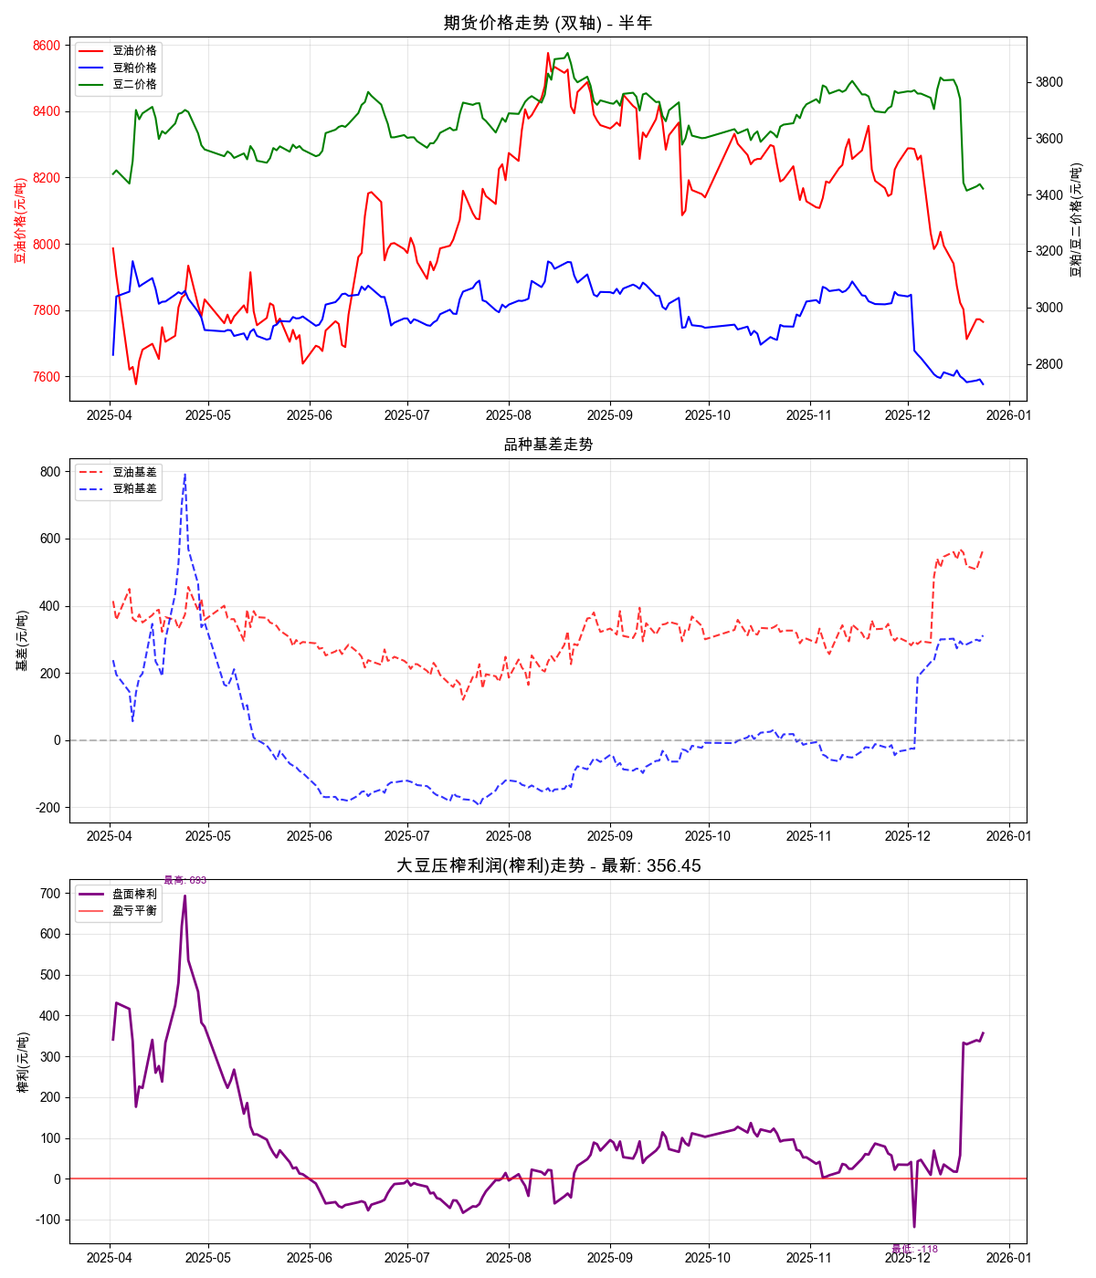
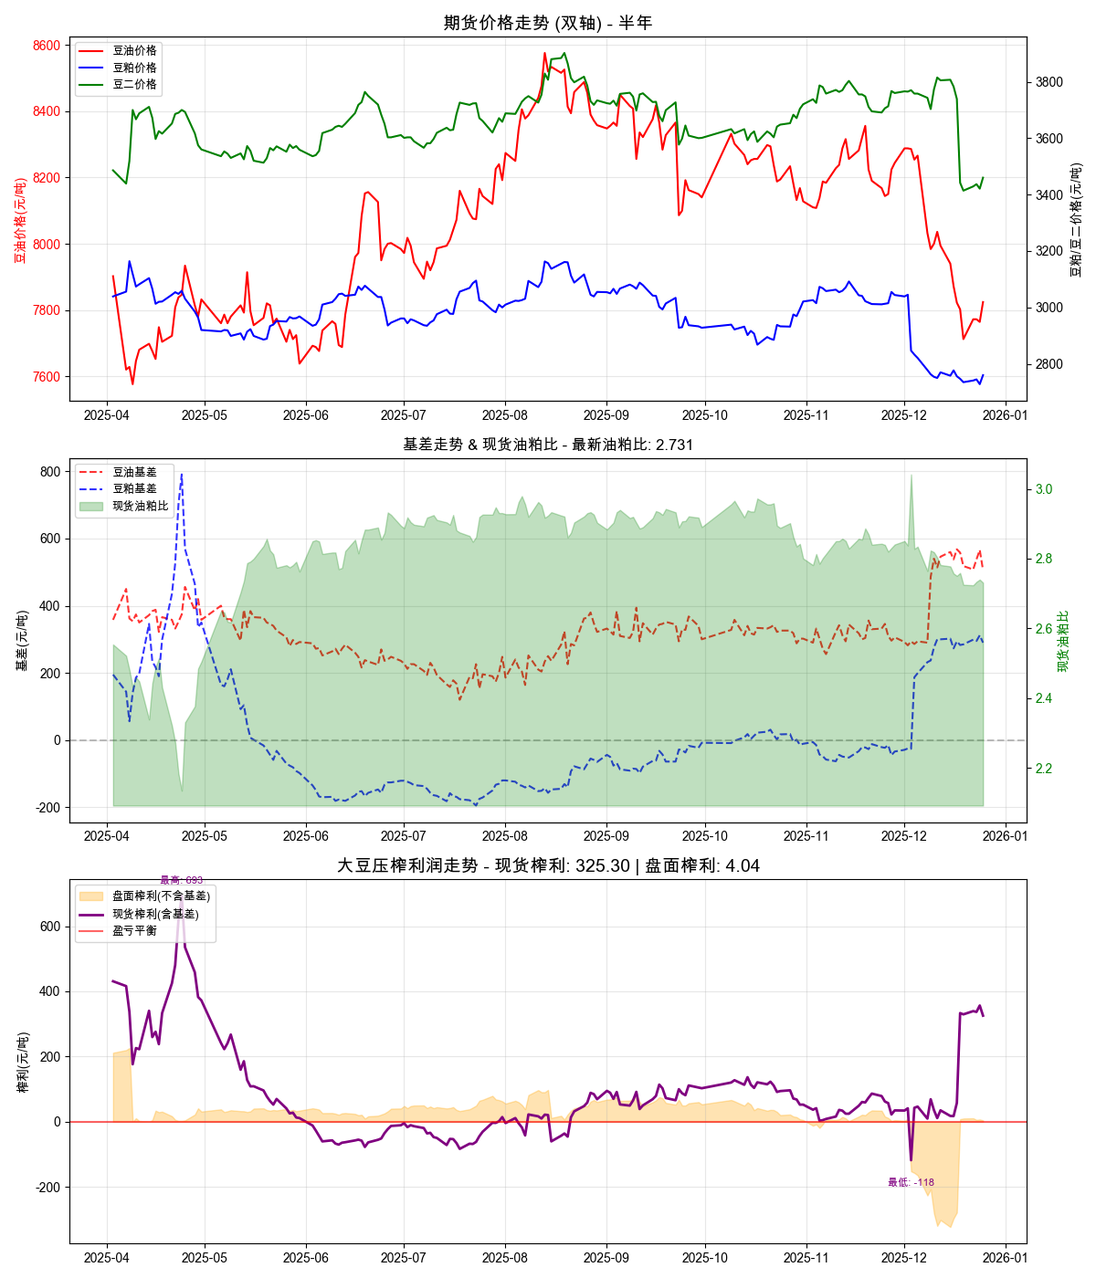
智能同步: 2025-12-25 22:32:50

diff --git a/分析文章脚本/榨利计算深度分析_v3.py b/分析文章脚本/榨利计算深度分析_v3.py
@@ -158,12 +158,20 @@ class 榨利计算器V3:
         合并 = pd.merge(豆油数据, 豆粕数据, on='日期', how='inner')
         合并 = pd.merge(合并, 豆二数据, on='日期', how='inner')
         
-        # 核心公式
+        # 核心公式：含基差榨利
         合并['榨利'] = (
             (合并['豆油价格'] + 合并['豆油基差']) * self.豆油产出率 + 
             (合并['豆粕价格'] + 合并['豆粕基差']) * self.豆粕产出率 - 
             合并['豆二价格'] - self.压榨成本
         )
+        # 盘面榨利：不含基差
+        合并['盘面榨利'] = (
+            合并['豆油价格'] * self.豆油产出率 + 
+            合并['豆粕价格'] * self.豆粕产出率 - 
+            合并['豆二价格'] - self.压榨成本
+        )
+        # 现货油粕比
+        合并['现货油粕比'] = (合并['豆油价格'] + 合并['豆油基差']) / (合并['豆粕价格'] + 合并['豆粕基差'])
         合并['榨利率'] = (合并['榨利'] / 合并['豆二价格']) * 100
         return 合并
 
@@ -193,27 +201,40 @@ class 榨利计算器V3:
         lines2, labels2 = ax1_r.get_legend_handles_labels()
         ax1.legend(lines1 + lines2, labels1 + labels2, loc='upper left', fontsize=9)
         
-        # 2. 基差走势 (中图)
+        # 2. 基差走势 (中图) - 含现货油粕比面积图
         ax2.plot(data['日期'], data['豆油基差'], 'r--', label='豆油基差', alpha=0.8)
         ax2.plot(data['日期'], data['豆粕基差'], 'b--', label='豆粕基差', alpha=0.8)
         ax2.axhline(0, color='gray', linestyle='--', alpha=0.5)
-        ax2.set_title('品种基差走势', fontsize=12)
         ax2.set_ylabel('基差(元/吨)')
-        ax2.legend(loc='upper left', fontsize=9)
         ax2.grid(True, alpha=0.3)
         
-        # 3. 榨利走势 (下图)
-        ax3.plot(data['日期'], data['榨利'], color='purple', label='盘面榨利', linewidth=2)
+        # 右轴：现货油粕比面积图
+        ax2_r = ax2.twinx()
+        ax2_r.fill_between(data['日期'], data['现货油粕比'].min() * 0.98, data['现货油粕比'], alpha=0.25, color='green', label='现货油粕比')
+        ax2_r.set_ylabel('现货油粕比', color='green')
+        ax2_r.tick_params(axis='y', labelcolor='green')
+        
+        # 合并图例
+        lines1, labels1 = ax2.get_legend_handles_labels()
+        lines2, labels2 = ax2_r.get_legend_handles_labels()
+        ax2.legend(lines1 + lines2, labels1 + labels2, loc='upper left', fontsize=9)
+        ax2.set_title(f'基差走势 & 现货油粕比 - 最新油粕比: {data["现货油粕比"].iloc[-1]:.3f}', fontsize=12)
+        
+        # 3. 榨利走势 (下图) - 含盘面榨利面积图
+        # 盘面榨利面积图（不含基差）
+        ax3.fill_between(data['日期'], 0, data['盘面榨利'], alpha=0.3, color='orange', label='盘面榨利(不含基差)')
+        # 含基差榨利折线
+        ax3.plot(data['日期'], data['榨利'], color='purple', label='现货榨利(含基差)', linewidth=2)
         ax3.axhline(0, color='red', linestyle='-', alpha=0.6, label='盈亏平衡')
         
-        # 标注最值
+        # 标注含基差榨利最值
         max_v, min_v = data['榨利'].max(), data['榨利'].min()
         max_d = data.loc[data['榨利'].idxmax(), '日期']
         min_d = data.loc[data['榨利'].idxmin(), '日期']
         ax3.annotate(f'最高: {max_v:.0f}', xy=(max_d, max_v), xytext=(0, 10), textcoords='offset points', ha='center', color='purple', fontsize=8)
         ax3.annotate(f'最低: {min_v:.0f}', xy=(min_d, min_v), xytext=(0, -20), textcoords='offset points', ha='center', color='purple', fontsize=8)
         
-        ax3.set_title(f'大豆压榨利润(榨利)走势 - 最新: {data["榨利"].iloc[-1]:.2f}', fontsize=14)
+        ax3.set_title(f'大豆压榨利润走势 - 现货榨利: {data["榨利"].iloc[-1]:.2f} | 盘面榨利: {data["盘面榨利"].iloc[-1]:.2f}', fontsize=14)
         ax3.set_ylabel('榨利(元/吨)')
         ax3.legend(loc='upper left', fontsize=9)
         ax3.grid(True, alpha=0.3)

diff --git a/分析文章脚本/blog/榨利深度分析报告.md b/分析文章脚本/blog/榨利深度分析报告.md
@@ -1,7 +1,7 @@
 ---
 title: "大豆榨利深度分析报告"
-date: 2025-12-25T12:25:07+08:00
-lastmod: 2025-12-25T12:25:07+08:00
+date: 2025-12-25T22:32:23+08:00
+lastmod: 2025-12-25T22:32:23+08:00
 description: "自动化生成的压榨利润深度报告，引用原始版本高精绘图和 DeepSeek AI 逻辑。"
 draft: false
 categories: ["榨利深度分析"]
@@ -11,8 +11,8 @@ image: ../../images/charts/margin_chart_半年.png
 
 ## 🛰 数据核心快照
 
-- **最新榨利**: `356.45` 元/吨 (压榨成本：150.0)
-- **基差详情**: 豆油 `566` | 豆粕 `312`
+- **最新榨利**: `325.30` 元/吨 (压榨成本：150.0)
+- **基差详情**: 豆油 `506` | 豆粕 `290`
 
 ---
 
@@ -20,59 +20,46 @@ image: ../../images/charts/margin_chart_半年.png
 
 # 大豆压榨利润深度点评
 
-## 一、当前利润在历史周期中的位置：**显著偏离均值，处于高利润区间**
+## 一、 利润周期定位：处于历史高位，盈利窗口显著
 
-| 指标 | 数值 | 解读 |
-| :--- | :--- | :--- |
-| **当前榨利** | 356.45 元/吨 | 绝对值处于高位 |
-| **半年均值** | 80.24 元/吨 | **当前值远超均值（+344%）**，表明近期利润中枢已系统性抬升 |
-| **最值区间** | [-118, 693] | 当前利润处于区间**上沿（约80%分位）**，接近半年峰值 |
-| **半年胜率** | 72.2% | 高胜率印证了本阶段压榨利润环境的整体友好性 |
+**核心结论：当前榨利处于历史性高位，盈利水平远超常态。**
 
-**核心结论**：当前榨利已脱离“舒适区间”，进入**高利润、高风险**的周期性顶部区域。历史规律表明，如此高的利润水平难以长期维持，通常由短期供需错配驱动，并可能引发后续的供应增加或需求替代。
+1.  **绝对水平分析**：
+    *   当前榨利 **325.30元/吨**，显著高于半年均值 **80.15元/吨**，超出均值约 **306%**。
+    *   该数值已接近半年内观测到的最高值区间（693元/吨）的中上水平，远脱离亏损区间（最低-118元/吨）。
 
----
+2.  **相对位置与持续性评估**：
+    *   结合 **72.2%的半年胜率**，表明过去半年市场环境整体对压榨方有利。当前利润不仅是“盈利”，更是“高额盈利”。
+    *   如此高的利润水平在压榨产业中不可持续，通常由短期供需错配驱动。它既是市场机会的信号，也预示着未来利润回归均值的压力正在积聚（可能通过原料成本上涨或产成品价格下跌实现）。
 
-## 二、基差结构对油厂利润策略的影响：**高基差提供保护，但结构分化蕴含风险**
+## 二、 基差结构对利润策略的影响：锁定利润的黄金窗口
 
-| 品种 | 最新基差 | 对油厂策略的影响 |
-| :--- | :--- | :--- |
-| **豆油** | **+566.0** | **强烈正套信号**。高基差表明现货紧张或看涨情绪浓厚。油厂最优策略是：<br>1. **加快现货销售**，锁定高基差利润。<br>2. **在期货盘面进行卖出套保**（如卖出Y合约），构建“强现货+弱期货”的基差贸易头寸，将当前的高基差利润固化。 |
-| **豆粕** | **+312.0** | **正向但弱于豆油**。同样支持现货销售优先的策略。但需警惕：<br>1. 豆粕需求（养殖端）的可持续性是关键。<br>2. **油强粕弱**的格局可能导致利润来源过度依赖豆油，一旦油脂价格回调，利润将快速侵蚀。 |
+当前“豆油强、豆粕亦强”的双高基差结构，为油厂提供了绝佳的策略操作空间。
 
-**综合影响分析**：
-- **利好面**：双品种正基差为油厂提供了丰厚的**现货溢价**，这是当前高额压榨利润的重要来源。油厂可通过“卖现货、空期货”轻松实现利润兑现。
-- **风险面**：**基差结构本身是动态的**。当前的高基差可能吸引仓单注册或刺激进口，从而在未来转为压制力量。特别是豆油基差处于绝对高位，其回归风险更大。
+*   **豆油基差 506.0元/吨**：此基差处于极高水平，强烈反映出**现货市场豆油供应紧张、需求强劲或对未来看涨情绪浓厚**。高基差直接提升了油厂的现货销售价格，是当前高榨利的重要贡献者。
+*   **豆粕基差 290.0元/吨**：同样处于强势区间，表明豆粕现货需求坚挺，下游提货积极，库存压力不大。
 
----
+**对油厂策略的核心影响：**
+1.  **现货销售策略**：应**积极顺价销售**现货豆油和豆粕，兑现高基差带来的超额利润。尤其是豆油，超高基差可能蕴含溢价风险。
+2.  **套期保值策略**：这是**利用期货市场锁定未来生产利润的关键时期**。当前盘面压榨利润丰厚，油厂对于未来采购的大豆，应在期货盘面上同步卖出豆油和豆粕合约，买入大豆合约（或直接卖出“油粕比”组合），将当前的高额利润提前锁定。
+3.  **基差交易策略**：可考虑在期货盘面建立虚拟库存（买入豆油、豆粕期货），同时预售远期高基差合同。若未来基差走弱，可通过期货平仓获利来弥补现货端损失，实现套利。
 
-## 三、短期操作与避险建议
+## 三、 短期操作与避险建议
 
-### 对于期货交易者（单边/套利）
-1. **不建议追高压榨利润多头**：当前利润水平已计入并反映了强劲的基差结构，上方空间有限，而均值回归是大概率事件。
-2. **关注“多粕空油”的套利机会**：在油厂高利润驱动下，开机率有望提升，豆油供应将增加。而豆粕需求相对刚性。历史高位的“油粕比”存在回调压力，可寻找时机进行油粕比收敛交易。
-3. **严格风控**：若参与，应将当前利润水平作为重要参考，设置紧止损。利润回落至200元/吨以下可能是趋势转变的信号。
+### 对于交易者（投机持仓）：
+*   **多头警惕**：当前榨利是典型的“高估”状态，做多压榨利润（买油粕、卖大豆）的风险收益比已转差。**不建议追高**。
+*   **关注反转机会**：应开始密切关注利润收敛的驱动信号（如美豆天气炒作、国内到港增加、豆粕需求转弱等），为未来**做空压榨利润**（卖油粕、买大豆）布局。当前价位可视为战略观察点，而非入场点。
+*   **短期方向**：利润的修复更可能通过产品端（豆油/豆粕）价格的相对走弱来实现，而非原料端大豆的单独暴跌。
 
-### 对于压榨企业（产业避险）
-1. **首要任务：锁定即期利润**
-   - **积极销售现货**，利用高基差快速回笼资金。
-   - **在期货盘面对未来1-2个月的预估产量进行卖出套期保值**。即使未来现货下跌，也能通过期货盈利弥补，保住大部分压榨利润。
-
-2. **利用基差合同管理风险**
-   - 对下游客户推行**基差合同**，将自身持有的高基差转移或分享，提前锁定销售价差，避免未来基差走弱带来的损失。
-
-3. **谨慎对待远期采购**
-   - 当前高利润对应的是**当下的成本与售价**。在采购远期大豆时（如美西/巴西新作），需以**套保后的利润**为决策依据，避免“浮盈”误导，陷入“高价买原料、低价卖产品”的困境。
-
-4. **动态监控开机节奏**
-   - 高利润会刺激全行业提升开机率。需密切关注国内主要港口的到港、开机数据，警惕因供应集中增加导致的现货价格踩踏。可考虑在行业开机率显著攀升时，加大套保比例。
+### 对于压榨企业（产业避险）：
+1.  **首要任务——锁定利润**：对于已采购的现货大豆，应立即在期货市场对产成品进行**100%以上的套期保值**，固化每吨300元以上的利润。对于未点价的远期大豆，可结合盘面利润，**积极点价并同步套保**。
+2.  **基差风险管理**：在销售现货时，可适当将一部分头寸以**“期货价格+固定基差”** 的远期合同模式销售，将基差风险转移，专注赚取锁定的加工利润。
+3.  **采购节奏建议**：避免在榨利高点过度激进地追高采购远期大豆。应采取“小步快跑”策略，采购与套保紧密配合，不裸漏大豆原料的上涨风险。
+4.  **库存策略**：在保证合同执行的前提下，不宜过度囤积产成品现货库存。高利润和高基差环境下，“变现”比“囤货”更安全。
 
 ---
 
-## 总结
-当前大豆压榨利润处于**周期性高位**，由异常强劲的双品种正基差所驱动。对产业而言，这是**兑现利润、加强套保**的黄金窗口，而非扩张产能的冲锋号。利润的可持续性存疑，**“高利润→高供给→利润压缩”** 的产业逻辑链条可能随时启动。策略上应 **“现货优先，期货护航，警惕拐点”**。
-
-**风险提示**：本分析基于给定数据。实际决策需密切关注南美物流、北美天气、国内养殖利润及政策动向等未包含变量。
+**总结：当前大豆压榨利润处于周期性高位，由双高基差强力支撑。对产业而言，这是天赐的套保良机，核心策略应从“博行情”转向“锁利润”。对市场而言，高利润如同“磁石”，必将吸引供应增加或抑制需求，最终引导利润回归。投资者需耐心等待驱动信号，布局均值回归行情。**
 
 ---
 
@@ -96,4 +83,4 @@ image: ../../images/charts/margin_chart_半年.png
 ## 🛠 计算说明
 > 榨利 = (豆油现货价格 × 18.5% + 豆粕现货价格 × 78.5%) - 豆二价格 - 150.0
 > 数据源：交易法门(基差) / Akshare(期货)
-> 更新时间：2025-12-25 12:25:07
+> 更新时间：2025-12-25 22:32:23

diff --git a/content/posts/榨利深度分析报告.md b/content/posts/榨利深度分析报告.md
@@ -1,7 +1,7 @@
 ---
 title: "大豆榨利深度分析报告"
-date: 2025-12-25T17:39:28+08:00
-lastmod: 2025-12-25T17:39:28+08:00
+date: 2025-12-25T22:32:23+08:00
+lastmod: 2025-12-25T22:32:23+08:00
 description: "自动化生成的压榨利润深度报告，引用原始版本高精绘图和 DeepSeek AI 逻辑。"
 draft: false
 categories: ["榨利深度分析"]
@@ -22,46 +22,44 @@ image: ../../images/charts/margin_chart_半年.png
 
 ## 一、 利润周期定位：处于历史高位，盈利窗口显著
 
-**1. 绝对水平分析：**
-当前榨利 **325.30 元/吨**，显著高于半年均值 **80.15 元/吨**，并已进入历史最值区间 **[-118, 693]** 的上半区。这表明当前压榨利润处于**极高水平**，是近半年来的黄金盈利期。
+**核心结论：当前榨利处于历史性高位，盈利水平远超常态。**
 
-**2. 相对水平与胜率解读：**
-- **位置评估**：当前利润远超均值，距离区间上沿（693）尚有空间，但已处于**历史高位区间**。
-- **胜率佐证**：高达 **72.2%** 的半年胜率，意味着在过去半年里，维持正利润是大概率事件，当前的高利润并非偶然，而是处于一个**持续性的盈利周期**中。高胜率增强了当前利润水平的可信度与可持续性预期。
+1.  **绝对水平分析**：
+    *   当前榨利 **325.30元/吨**，显著高于半年均值 **80.15元/吨**，超出均值约 **306%**。
+    *   该数值已接近半年内观测到的最高值区间（693元/吨）的中上水平，远脱离亏损区间（最低-118元/吨）。
 
-**结论**：压榨利润正处于一个**强势、高置信度的盈利窗口**。油厂正享受着周期性的红利，但需警惕利润从高位回归均值的风险。
+2.  **相对位置与持续性评估**：
+    *   结合 **72.2%的半年胜率**，表明过去半年市场环境整体对压榨方有利。当前利润不仅是“盈利”，更是“高额盈利”。
+    *   如此高的利润水平在压榨产业中不可持续，通常由短期供需错配驱动。它既是市场机会的信号，也预示着未来利润回归均值的压力正在积聚（可能通过原料成本上涨或产成品价格下跌实现）。
 
-## 二、 基差结构对利润策略的影响：利润锁定的黄金时机
+## 二、 基差结构对利润策略的影响：锁定利润的黄金窗口
 
-当前的基差结构为油厂提供了绝佳的利润管理和风险对冲窗口。
+当前“豆油强、豆粕亦强”的双高基差结构，为油厂提供了绝佳的策略操作空间。
 
-**1. 基差现状：**
-- **豆油基差：+506.0** —— **异常强劲**。这反映了现货市场豆油供应紧张或需求旺盛，现货升水极高。
-- **豆粕基差：+290.0** —— **显著强势**。同样表明豆粕现货供需面偏紧。
+*   **豆油基差 506.0元/吨**：此基差处于极高水平，强烈反映出**现货市场豆油供应紧张、需求强劲或对未来看涨情绪浓厚**。高基差直接提升了油厂的现货销售价格，是当前高榨利的重要贡献者。
+*   **豆粕基差 290.0元/吨**：同样处于强势区间，表明豆粕现货需求坚挺，下游提货积极，库存压力不大。
 
-**2. 对油厂策略的核心影响：**
-- **利润锁定（点价）的绝佳机会**：极高的现货升水，意味着油厂在期货盘面进行卖出套保（如卖出豆油、豆粕期货以锁定未来产出价格）时，可以锁定一个**“期货价格 + 高额基差”** 的超额利润。这是将当前**盘面高榨利**与**现货高升水**双重优势变现的关键。
-- **套保效率提升**：高基差环境下，卖出套保的“基差收益”预期非常可观，极大地降低了套保头寸出现亏损的风险，鼓励油厂积极进行远期利润锁定。
-- **现货销售策略**：油厂应优先执行**高基差合同**的销售，并积极预售远期现货，将当前的高基差利润落袋为安。因为高基差不可持续，未来随着供需缓解，基差走弱是大概率事件。
-
-**结论**：当前的**高基差与高盘面利润形成共振**，为油厂提供了数年难遇的、风险极低的利润锁定环境。**不套保等于裸奔**，错失机会将可能导致利润大幅回吐。
+**对油厂策略的核心影响：**
+1.  **现货销售策略**：应**积极顺价销售**现货豆油和豆粕，兑现高基差带来的超额利润。尤其是豆油，超高基差可能蕴含溢价风险。
+2.  **套期保值策略**：这是**利用期货市场锁定未来生产利润的关键时期**。当前盘面压榨利润丰厚，油厂对于未来采购的大豆，应在期货盘面上同步卖出豆油和豆粕合约，买入大豆合约（或直接卖出“油粕比”组合），将当前的高额利润提前锁定。
+3.  **基差交易策略**：可考虑在期货盘面建立虚拟库存（买入豆油、豆粕期货），同时预售远期高基差合同。若未来基差走弱，可通过期货平仓获利来弥补现货端损失，实现套利。
 
 ## 三、 短期操作与避险建议
 
-### 对于期货投资者/交易者：
-- **多头持仓者**：鉴于利润和基差均处高位，上行空间可能受限而回调风险积聚。建议**逢高逐步减仓**，不宜在此位置追多压榨利润头寸。
-- **空头投机者**：逆势做空利润为时尚早，需等待利润拐点信号（如基差开始趋势性走弱、大豆到港成本大幅攀升等）。当前宜观望。
-- **套利者**：可关注“多原料（美豆/连豆一）、空成品（豆油+豆粕）”的做空压榨利润套利机会的左侧布局，但需严格控制仓位，等待驱动信号明确。
+### 对于交易者（投机持仓）：
+*   **多头警惕**：当前榨利是典型的“高估”状态，做多压榨利润（买油粕、卖大豆）的风险收益比已转差。**不建议追高**。
+*   **关注反转机会**：应开始密切关注利润收敛的驱动信号（如美豆天气炒作、国内到港增加、豆粕需求转弱等），为未来**做空压榨利润**（卖油粕、买大豆）布局。当前价位可视为战略观察点，而非入场点。
+*   **短期方向**：利润的修复更可能通过产品端（豆油/豆粕）价格的相对走弱来实现，而非原料端大豆的单独暴跌。
 
-### 对于压榨企业（油厂）：
-1. **首要行动——积极套保**：应在期货盘面**立即、分批**对未来3-6个月的生产计划进行卖出套保，锁定当前丰厚的盘面压榨利润。
-2. **现货策略——预售为王**：大力开展豆油、豆粕的远期现货预售，将高昂的基差提前兑现。销售合同应明确基差，避免绝对价格合同。
-3. **采购节奏**：在锁定产品端利润后，可更从容地规划大豆采购。可考虑在套保利润保护下，点价采购远期大豆，完成“双向锁定”。
-4. **风险警示**：
-    - **最大风险是基差坍塌**：当前利润的核心支撑之一是高基差。需密切关注下游提货速度、库存变化及国家抛储政策，一旦基差趋势性转弱，应视为危险信号。
-    - **警惕成本端异动**：关注南美装运、北美天气炒作可能带来的大豆进口成本快速上涨，这会侵蚀既定利润。
+### 对于压榨企业（产业避险）：
+1.  **首要任务——锁定利润**：对于已采购的现货大豆，应立即在期货市场对产成品进行**100%以上的套期保值**，固化每吨300元以上的利润。对于未点价的远期大豆，可结合盘面利润，**积极点价并同步套保**。
+2.  **基差风险管理**：在销售现货时，可适当将一部分头寸以**“期货价格+固定基差”** 的远期合同模式销售，将基差风险转移，专注赚取锁定的加工利润。
+3.  **采购节奏建议**：避免在榨利高点过度激进地追高采购远期大豆。应采取“小步快跑”策略，采购与套保紧密配合，不裸漏大豆原料的上涨风险。
+4.  **库存策略**：在保证合同执行的前提下，不宜过度囤积产成品现货库存。高利润和高基差环境下，“变现”比“囤货”更安全。
 
-**总结**：当前大豆压榨利润处于**高利润、高基差、高胜率**的“三高”甜蜜点。对于油厂而言，这是**将浮动盈利转化为确定利润的战略性窗口期**，套保操作刻不容缓。对于市场而言，这预示着利润周期可能已近高潮，需为潜在的转折做好准备。**在盛宴中，应首先确保自己已备好离场的通道。**
+---
+
+**总结：当前大豆压榨利润处于周期性高位，由双高基差强力支撑。对产业而言，这是天赐的套保良机，核心策略应从“博行情”转向“锁利润”。对市场而言，高利润如同“磁石”，必将吸引供应增加或抑制需求，最终引导利润回归。投资者需耐心等待驱动信号，布局均值回归行情。**
 
 ---
 
@@ -85,4 +83,4 @@ image: ../../images/charts/margin_chart_半年.png
 ## 🛠 计算说明
 > 榨利 = (豆油现货价格 × 18.5% + 豆粕现货价格 × 78.5%) - 豆二价格 - 150.0
 > 数据源：交易法门(基差) / Akshare(期货)
-> 更新时间：2025-12-25 17:39:28
+> 更新时间：2025-12-25 22:32:23
